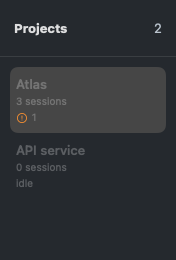
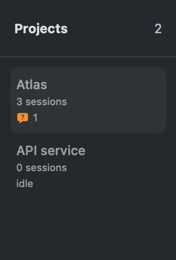
present the transcript view in the readme (#394)
* present the transcript view in the readme

The view had no section of its own: the readme named it only in passing,
as the "session-details drawer" and the "completed-turn drawer", and said
the desktop app has no way to attach a screenshot. The new section sits
after Install and links to Session restart and Transcript images for the
detail. The sentences elsewhere that contradicted it now use the same name.

Copilot-Session: f09b9722-c1d4-4bbe-8c77-f14c3c4407c0

* say the transcript view has no animation under reduce motion

The readme said the view fades instead of sliding. Under Reduce Motion
the open and close animation is nil, so it appears at once. Also say
"alongside the terminal", since the drawer covers its right edge, and
name a plain shell rather than a plain terminal, since Copilot started
by hand in a terminal session is tracked.

Copilot-Session: f09b9722-c1d4-4bbe-8c77-f14c3c4407c0

* say where other slash commands go and name the control by its label

The composer sends any draft but /restart to Copilot as a message, so the
readme now says so instead of only saying those commands stay in the
terminal. The control that opens the view is named by its visible label,
Show session details, where the readme still said "session-details button".

Copilot-Session: f09b9722-c1d4-4bbe-8c77-f14c3c4407c0

* show the transcript view and refresh the readme pictures

The readme had no picture of the transcript view, and its two pictures
[…]

diff --git a/README.md b/README.md
@@ -1,14 +1,16 @@
 # Copilot Projects
 
-A native macOS terminal workspace for keeping coding-agent sessions organized.
+A native macOS terminal workspace for keeping coding-agent sessions organized,
+with a [transcript view](#transcript-view) of their Copilot conversations.
 Projects and sessions occupy separate navigation columns, and status indicators tell
 you what is running, what needs input, and what finished while you were away.
 
 ![Two-Level Browser with separate project and session columns beside the native terminal](docs/workspace.png)
 
-Native workspace captures use isolated sample projects and illustrative terminal
-text. No live workspace content is shown. This unfocused-window capture was
-produced by the native Actions workflow; its origin is embedded in the PNG.
+Native workspace captures use isolated sample projects, illustrative terminal text,
+and an invented conversation. No live workspace content is shown. Each is an
+unfocused-window capture of the app's own views, made by a separate capture host
+that is given only that sample data; its origin is embedded in the PNG.
 
 ## Install
 
@@ -24,6 +26,40 @@ connectivity, tunnel authentication, and remote push delivery are maintained and
 built separately; they are not included in the public desktop distribution.
 If you already use a remote-enabled installation, keep using its integrated
 distribution rather than replacing it with the standalone download.
+
+## Transcript view
+
+The transcript view shows a session's Copilot conversation as turns of rendered
+Markdown. Use it alongside the terminal to read a reply with its tables and code
+blocks laid out, to scroll back while Copilot keeps working, or to answer Copilot
+without going to the terminal.
+
+![Transcript view open as a drawer over the right side of the terminal, showing a prompt, a collapsed Thinking row, Copilot's reply with a table and a code block, a collapsed Tools row, quick-reply suggestions, and the message field with its Steer button](docs/transcript.png)
+
+Open it with **Show session details** in the session's heading. It opens as a drawer
+over the terminal's right edge; **Expand to full terminal area** puts it in the
+terminal's place. **Copilot Projects ▸ Default View ▸ Transcript** opens it for each
+session the first time you select it, and **Full-Width Transcript View** in the same
+menu sets whether it opens expanded.
+
+Each turn shows the prompt and its images, Copilot's replies, and collapsed
+**Thinking** and **Tools** sections for its reasoning steps and tool calls. The running
+turn is included, followed by a line that shows Copilot is working and any messages
+Copilot has not taken yet. In the view you can:
+
+- **Answer a question** by its choices, a text field, or a form. When Copilot's
+  `ask_user` question is answered, the answer becomes the next turn.
+- **Send a message** that steers the running task or queues after it, and attach
+  screenshots or text files to it.
+- **Restart the session** with `/restart`; see [Session restart](#session-restart).
+- **Select and copy text** across messages, and open an image in a larger preview;
+  see [Transcript images](#transcript-images).
+
+Permission prompts stay in the terminal. So do other slash commands: the composer
+sends anything but `/restart` to Copilot as a message. A tool's output is not shown,
+apart from images it returned. The view holds at most 200 turns of a conversation. It
+needs the session's tracker, which requires Copilot CLI experimental extensions, so a
+plain shell or another command-line tool has no transcript.
 
 ## Session restart
 
@@ -75,11 +111,12 @@ Uploads are limited to four images, 2 MiB each, and 16 megapixels, further reduc
 by the selected model's limits. They live outside project repositories in the
 private state directory, expire after seven days, and are reclaimed on subsequent
 uploads. Storage is capped at 128 MiB/128 entries without evicting unexpired
-uploads. This repository does not add an upload UI to the standalone desktop app.
+uploads. The Mac's [transcript view](#transcript-view) composer can attach or paste
+screenshots too.
 
 ## Transcript images
 
-The Mac session-details drawer displays retained inline terminal images beneath
+The Mac transcript view displays retained inline terminal images beneath
 their associated turn. It also shows the PNG and JPEG images attached to a prompt,
 under that prompt, and the images a tool returned, under that tool's row in the
 turn's Tools section, whose collapsed header counts them. Both are Mac-only and are
@@ -100,7 +137,7 @@ it does not reconstruct attachment history after image data has been discarded.
 Images restored from disk without a recorded display origin remain available in
 the terminal but are not guessed into a historical transcript turn.
 An open preview pins the image being inspected, even if the terminal later
-discards it. Closing the drawer or switching sessions dismisses that preview.
+discards it. Closing the view or switching sessions dismisses that preview.
 
 ## A workspace for parallel work
 
@@ -112,9 +149,9 @@ discards it. Closing the drawer or switching sessions dismisses that preview.
   requests), unread markers, failed-request markers, and native notifications help
   you find the session that needs you. Pending
   questions keep the waiting indicator visible even while other activity continues.
-- **Session details.** Read completed turns as Markdown and see usage,
-  background agents, and schedules when the
-  connected Copilot CLI supports them.
+- **Session details.** Read each turn as Markdown in the
+  [transcript view](#transcript-view), and see usage, background agents, and
+  schedules when the connected Copilot CLI supports them.
 - **Find any session.** Press `⌘K` to search every project's sessions by name,
   project, folder, or what you worked on. Luna suggests matches by meaning.
 - **Pull requests by goal.** Press `⇧⌘P` to open Copilot Pull Requests, a companion
@@ -170,8 +207,8 @@ accessibility labels.
 | Jump to a session | `⌃1`–`⌃9` |
 | Show / hide Projects | `⌘0` |
 
-Hold `⌘` or `⌃` to reveal numbered navigation hints. Use the session-details
-button to open the completed-turn drawer.
+Hold `⌘` or `⌃` to reveal numbered navigation hints. Use **Show session details**
+in the session's heading to open the [transcript view](#transcript-view).
 
 ### Find a session
 
@@ -371,8 +408,8 @@ look, banner choices, and the count Copilot Projects' Window menu shows are kept
 opening another brings the first forward.
 
 VoiceOver exposes each session's selection and attention state, with separate
-select and end actions. The session-details drawer uses a fade instead of
-sliding when Reduce Motion is enabled.
+select and end actions. The transcript view opens and closes without animation
+when Reduce Motion is enabled.
 
 The **+** side of the split button starts an interactive Copilot CLI session immediately,
 inheriting the current session's working directory. Its dropdown offers

diff --git a/docs/usage.md b/docs/usage.md
@@ -98,9 +98,11 @@ with a CoreGraphics fallback. The result is a few Swift files instead of hundred
   Attention** (`⇧⌘A`) cycles across projects in urgency order (`waiting` → `failed` →
   `unread` / `finished`). When the session it went to no longer needs you, it carries
   on from there instead of starting over. The session's tracker (below) drives this automatically.
-- **Completed-turn drawer:** Copilot CLI remains the native interactive terminal, while a
-  collapsible drawer overlays its right edge with independently scrollable completed turns
-  rendered as Markdown. Live work, permissions, shortcuts, and input stay entirely in the CLI.
+- **Transcript view:** Copilot CLI remains the native interactive terminal, while a
+  collapsible drawer overlays its right edge with independently scrollable turns
+  rendered as Markdown, or fills the terminal area. Copilot's questions can be answered
+  and messages sent from it; permissions and shortcuts stay in the CLI. See
+  [Transcript view](../README.md#transcript-view).
 - **Schedules + background work:** queued scheduled prompts show a clock with cadence/next-run
   details; active scheduled turns and subagents use a separate background indicator instead of
   making the foreground session look busy.
@@ -809,7 +811,7 @@ subagents. Copilot CLI currently loads extensions only when experimental feature
 Run `/experimental on` once before starting app-managed sessions, or pass
 `--experimental` when launching Copilot manually. Without it, terminal reattach still works, but
 a session shows Idle whatever it is doing, posts no alerts, and takes no prompt from the app or a
-remote client, and the completed-turn drawer, tracker-backed session details, native session
+remote client, and the transcript view, tracker-backed session details, native session
 controls, and reboot conversation resume are unavailable. Existing CLI sessions must use
 `/restart` after enabling experimental features. When the app upgrades the tracker, a session
 already running a tracker with hot reload asks Copilot to reload its extensions once it is idle

diff --git a/PRODUCT.md b/PRODUCT.md
@@ -63,8 +63,9 @@ The rendered finish review accepted seven native before/after captures
 unfocused windows. After states cover dark/light 1280x800 and compact 820x520,
 including compact Projects-hidden; observed terminal widths are 822pt, 420pt,
 and 539pt respectively. These are real Metal terminal screenshots, not generated
-mockups. `docs/workspace.png` matches the after-dark pixels; `docs/project-status.png`
-is its disclosed crop, and both carry provenance.
+mockups. `docs/workspace.png` showed the after-dark pixels until it was redrawn with
+the current app from the same sample workspace; `docs/project-status.png` is its
+disclosed crop, and both carry provenance.
 
 Palette checks and automated container/process/focus-collapse assertions are
 bounded evidence, not full interaction certification. Active windows, opened
